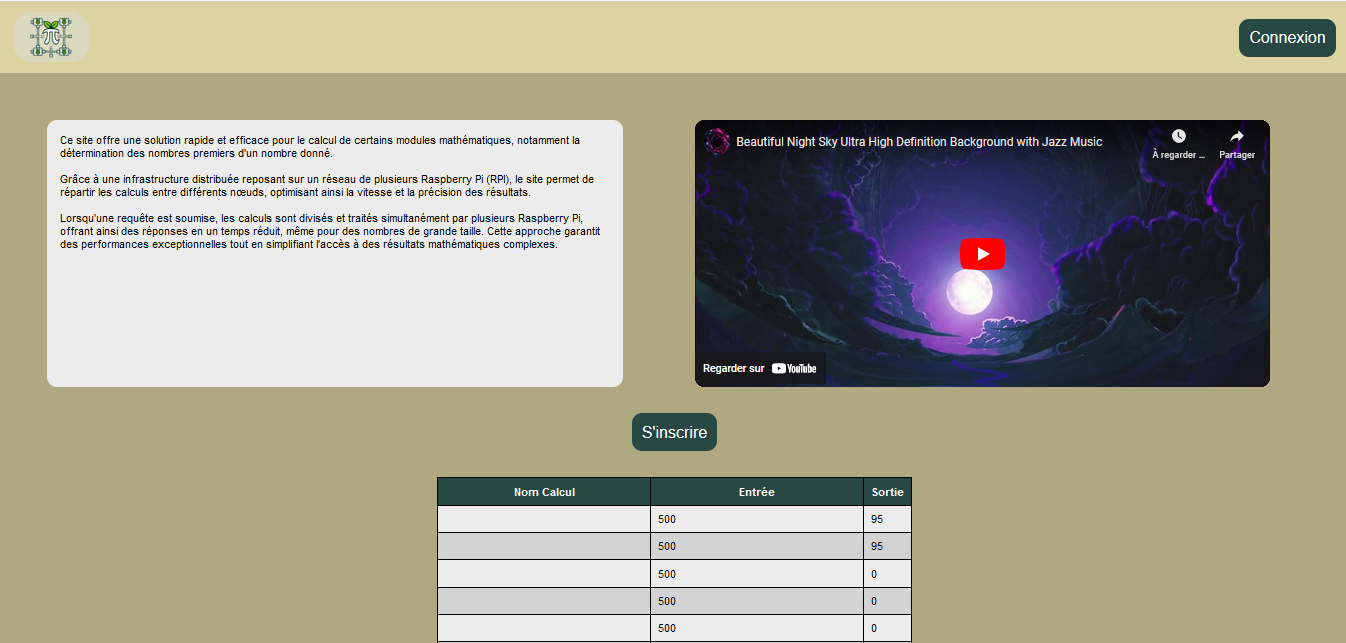
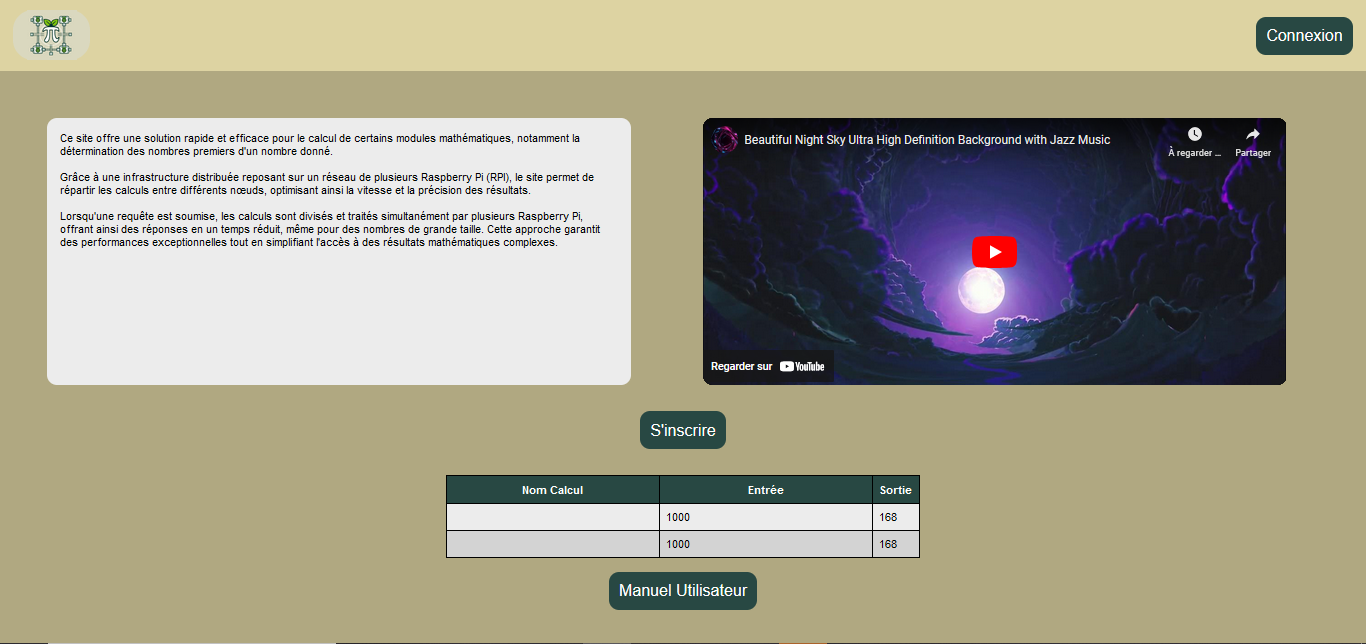
fix: Affichage de pi et du nombre de coeur dans le tableau de la page module

diff --git a/site/modules/index.php b/site/modules/index.php
@@ -165,7 +165,7 @@ moduleButtons.forEach(button => {
                             .then(response => response.json())
                             .then(data => {
                                 if (data.success) {
-                                    row_result.textContent = parseFloat(data.output.value);
+                                    row_result.textContent = parseFloat(data.output.pi);
                                     row_time.textContent = parseFloat(data.output.temps);
                                     row_rpi.textContent = JSON.stringify(data.output.size, null, 2);
                                 } else {

diff --git a/src/MPI_MC/MonteCarlo.py b/src/MPI_MC/MonteCarlo.py
@@ -39,7 +39,7 @@ if rank == 0:  # Collecte des résultats par le processus maître (rang 0)
     error = math.pi - pi
     
 
-    data = {"message" : "Résultat du lancement de MonteCarlo.py", "value" : error, "pi" : round(pi,5), "temps" : time}
+    data = {"message" : "Résultat du lancement de MonteCarlo.py", "value" : error, "pi" : round(pi,5), "temps" : time, "size" : size}
 
     #print(f"Processus: {size}")
     #print(f"Points: {total_points}")
